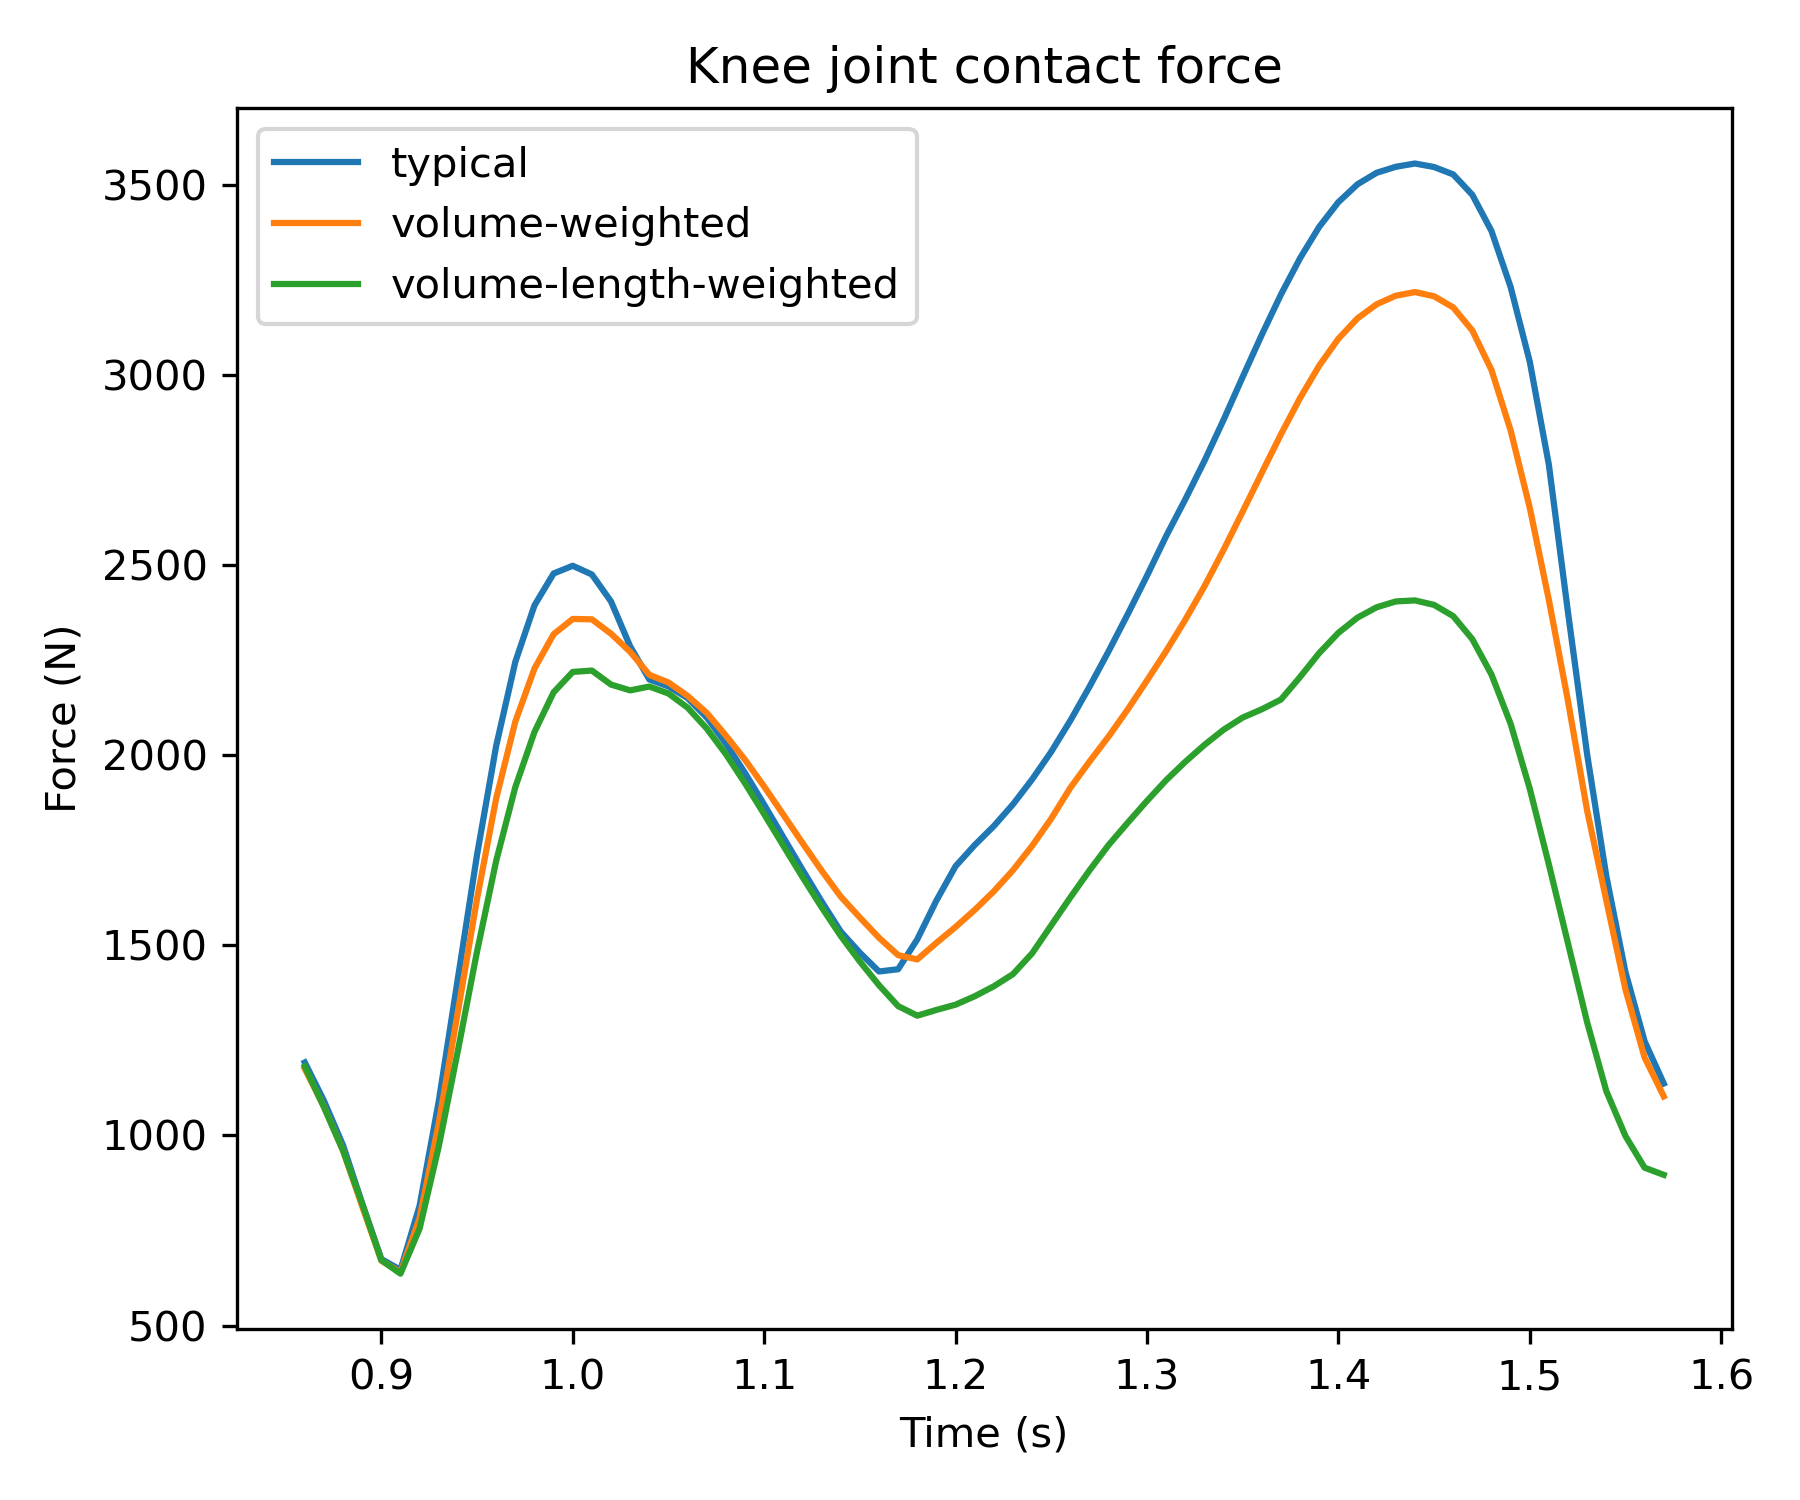
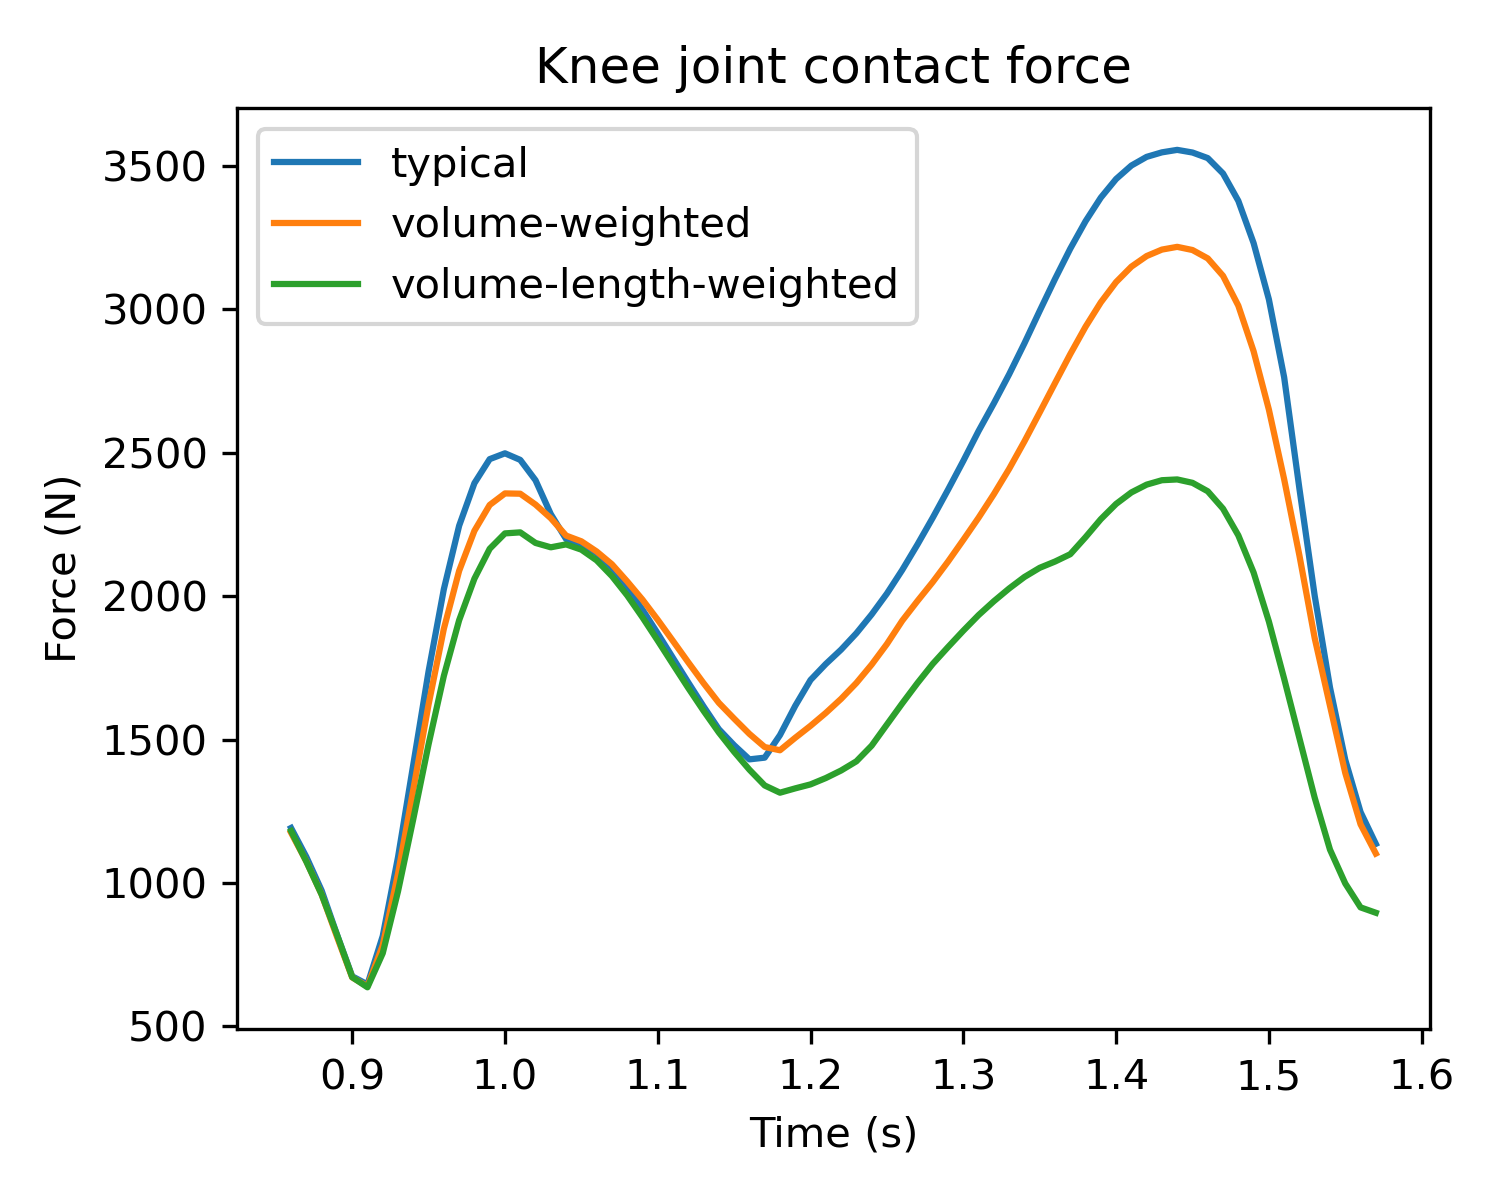
update graphs

diff --git a/CustomStaticOptimization.py b/CustomStaticOptimization.py
@@ -298,7 +298,7 @@ typical  = osim.TimeSeriesTable('output/jointReaction_t.sto')
 volume = osim.TimeSeriesTable('output/jointReaction_v.sto')
 weighted = osim.TimeSeriesTable('output/jointReaction_w.sto')
 t = typical.getIndependentColumn()
-plt.figure(tight_layout=True, figsize=(6,5))
+plt.figure(tight_layout=True, figsize=(5,4))
 plt.plot(t, -1*typical.getDependentColumn('walker_knee_l_y').to_numpy(), label='typical')
 plt.plot(t, -1*volume.getDependentColumn('walker_knee_l_y').to_numpy(), label='volume-weighted')
 plt.plot(t, -1*weighted.getDependentColumn('walker_knee_l_y').to_numpy(), label='volume-length-weighted')
@@ -316,14 +316,14 @@ weighted = osim.TimeSeriesTable('output/activity_w.sto')
 t = typical.getIndependentColumn()
 
 plt.close('all')
-fig, (ax1,ax2,ax3) = plt.subplots(1,3, figsize=(15,5), tight_layout=True, sharey=True, sharex=True)
+fig, (ax1,ax2,ax3) = plt.subplots(1,3, figsize=(13,4.5), tight_layout=True, sharey=True, sharex=True)
 plt.suptitle('Muscle activity')
 
 ax1.plot(t, typical.getDependentColumn('soleus_l').to_numpy(), label='soleus l')
 ax1.plot(t, typical.getDependentColumn('gasmed_l').to_numpy(), label='gast med l')
 ax1.plot(t, typical.getDependentColumn('gaslat_l').to_numpy(), label='gast lat l')
 ax1.plot(t, typical.getDependentColumn('perlong_l').to_numpy(), label='per long l')
-ax1.set_title('Typical Static Optimization')
+ax1.set_title('Typical SOpt')
 ax1.set_xlabel('Time (s)')
 ax1.legend()
 
@@ -332,7 +332,7 @@ ax2.plot(t, volume.getDependentColumn('soleus_l').to_numpy(), label='soleus l')
 ax2.plot(t, volume.getDependentColumn('gasmed_l').to_numpy(), label='gast med l')
 ax2.plot(t, volume.getDependentColumn('gaslat_l').to_numpy(), label='gast lat l')
 ax2.plot(t, volume.getDependentColumn('perlong_l').to_numpy(), label='per long l')
-ax2.set_title('Volume-weighted Static Optimization')
+ax2.set_title('Volume-weighted SOpt')
 ax2.set_xlabel('Time (s)')
 ax2.legend()
 
@@ -341,7 +341,7 @@ ax3.plot(t, weighted.getDependentColumn('soleus_l').to_numpy(), label='soleus l'
 ax3.plot(t, weighted.getDependentColumn('gasmed_l').to_numpy(), label='gast med l')
 ax3.plot(t, weighted.getDependentColumn('gaslat_l').to_numpy(), label='gast lat l')
 ax3.plot(t, weighted.getDependentColumn('perlong_l').to_numpy(), label='per long l')
-ax3.set_title('Volume-length-weighted Static Optimization')
+ax3.set_title('Volume-length-weighted SOpt')
 ax3.set_xlabel('Time (s)')
 ax3.legend()
 
